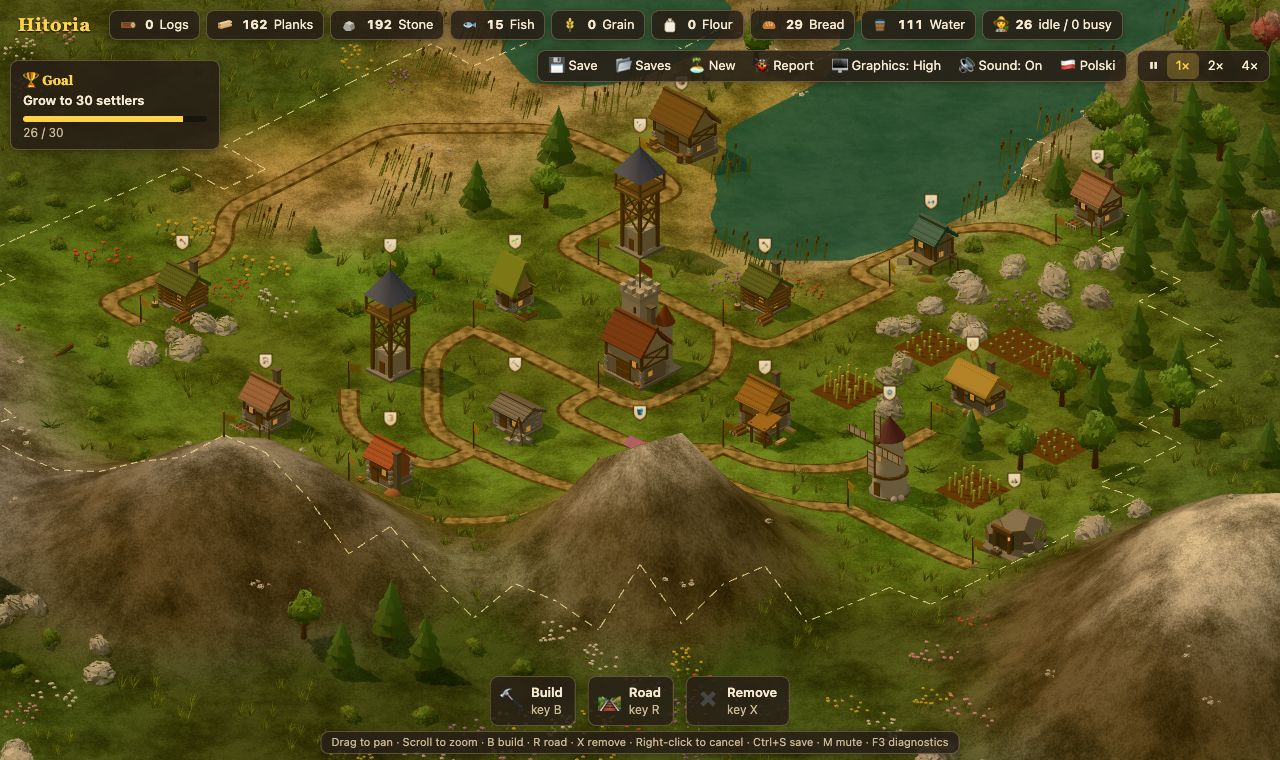
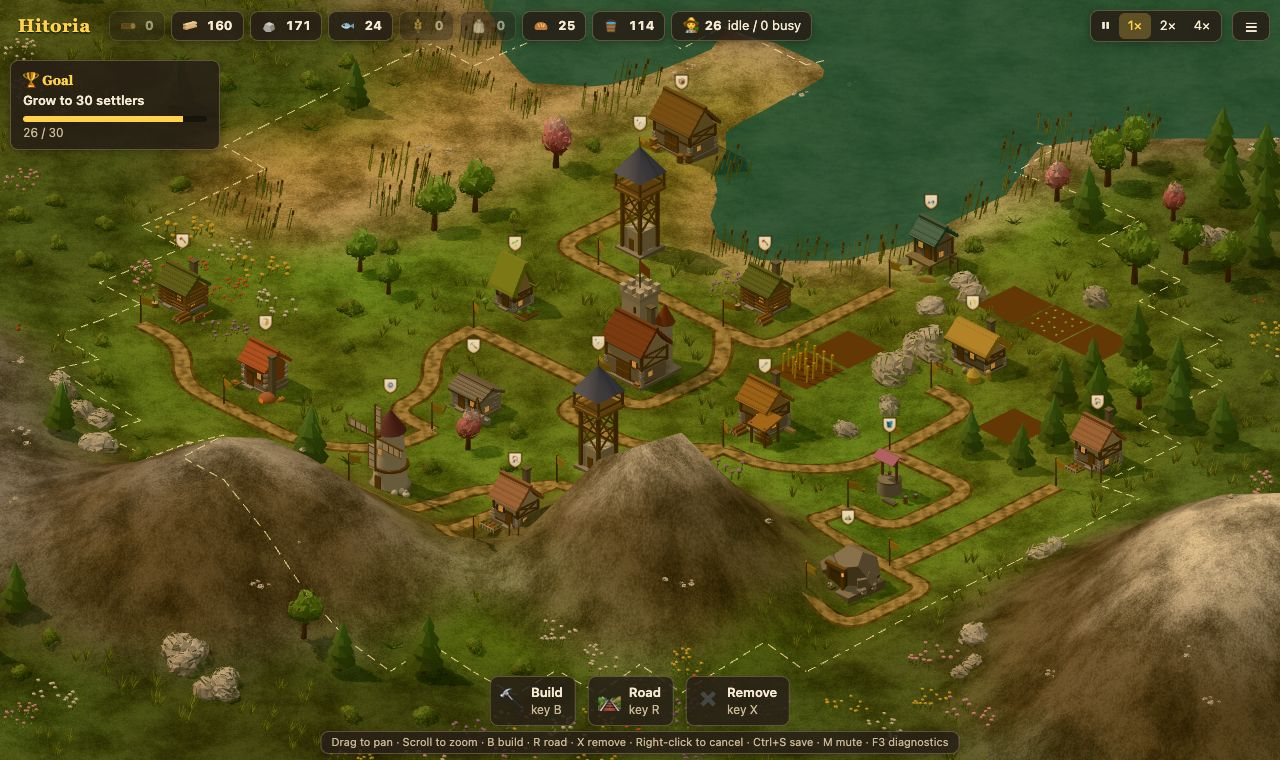
Fit the top bar on one row
Move the save, report, graphics, sound and language buttons into the
menu on every screen size. Show goods as picture and number, with the
name in a tooltip, and dim goods you have none of.

diff --git a/src/style.css b/src/style.css
@@ -61,9 +61,11 @@ canvas {
 }
 .pill { padding: 5px 10px; display: flex; align-items: center; gap: 6px; }
 .pill b { font-variant-numeric: tabular-nums; }
+/* Goods show as picture and number. The name is in the tooltip. Goods you have none of are dimmed. */
+.pill.none { opacity: 0.5; }
 
 #speed, #file { display: flex; padding: 2px; }
-#file { margin-left: auto; }
+#speed { order: 1; margin-left: auto; }
 #file, #speed, #info, .build, .toast, #help {
   background: var(--panel);
   border: 1px solid var(--edge);
@@ -204,7 +206,7 @@ canvas {
   border-radius: 8px;
   cursor: pointer;
 }
-#done[hidden], #menu { display: none; }
+#done[hidden] { display: none; }
 body.touch .build .key, body.touch #buildmenu kbd { display: none; } /* no keyboard on a touch screen */
 body.touch .build { row-gap: 0; }
 
@@ -216,28 +218,30 @@ body.touch .build { row-gap: 0; }
   border: 1px solid var(--edge);
   border-radius: 8px;
   cursor: pointer;
+  order: 2;
 }
+
+/* The file buttons fold away behind the menu button, so the top bar stays one row. */
+#file {
+  display: none;
+  position: absolute;
+  top: 40px;
+  right: 0;
+  flex-direction: column;
+  z-index: 20;
+}
+#file.open { display: flex; }
+#file button { padding: 8px 14px; text-align: left; }
 
 /* Phones, upright or on their side: fold the menu away and show goods as icon and number. */
 @media (max-width: 640px), (max-height: 500px) {
   #topbar { gap: 6px; }
   .brand { font-size: 16px; padding: 4px 2px; }
-  #speed { order: 1; margin-left: auto; }
-  #menu { display: block; order: 2; }
   #res { order: 3; width: 100%; gap: 4px; }
   .pill { padding: 3px 7px; gap: 2px; }
-  .pill .label { display: none; }
   #speed button { padding: 5px 8px; }
-  #file {
-    display: none;
-    position: absolute;
-    top: 38px;
-    right: 0;
-    flex-direction: column;
-    z-index: 20;
-  }
-  #file.open { display: flex; }
-  #file button { padding: 10px 14px; text-align: left; }
+  #file { top: 38px; }
+  #file button { padding: 10px 14px; }
   #info {
     top: auto;
     bottom: calc(96px + env(safe-area-inset-bottom));

diff --git a/src/ui.ts b/src/ui.ts
@@ -148,7 +148,7 @@ export class UI {
     const x = T();
     const stored = g.stored;
     $('res').innerHTML =
-      GOODS.map((k) => `<div class="pill"><span class="good ${k}"></span><b>${stored[k]}</b><span class="label">${goodName(k)}</span></div>`).join('') +
+      GOODS.map((k) => `<div class="pill${stored[k] ? '' : ' none'}" title="${goodName(k)}"><span class="good ${k}"></span><b>${stored[k]}</b></div>`).join('') +
       `<div class="pill">🧑🌾 ${x.settlers(g.pool, g.settlers.size)}</div>`;
 
     this.drawGoal();

diff --git a/src/main.ts b/src/main.ts
@@ -149,7 +149,7 @@ for (const btn of document.querySelectorAll<HTMLButtonElement>('#file button')) 
     ui.toast(T().newIsland);
   };
 }
-// On a narrow screen the file buttons fold away behind a menu button.
+// The file buttons fold away behind a menu button.
 document.getElementById('menu')!.onclick = () => document.getElementById('file')!.classList.toggle('open');
 window.addEventListener('pagehide', autosave);
 

diff --git a/README.md b/README.md
@@ -60,10 +60,10 @@ to the HQ, and its flag and roads stay.
 | Cancel | Right-click or Esc |
 | Pause | Space |
 | Save | Ctrl+S (or Cmd+S) |
-| Mute or unmute the sound | `M`, or the Sound button |
+| Mute or unmute the sound | `M`, or **Sound** in the ☰ menu |
 | Show live diagnostics | F3 |
 
-If something looks wrong, click **Report**. It saves a problem report to `reports/`.
+If something looks wrong, open the ☰ menu at the top right and click **Report**. It saves a problem report to `reports/`.
 
 ## Design pillars
 
@@ -127,6 +127,7 @@ stays the same. Saves from other addresses, such as http://main.localhost:5173, 
 ## Saving
 
 Saves live in your browser's local storage. You can keep as many as the storage holds.
+The save buttons are in the ☰ menu at the top right.
 
 - **Save** (or Ctrl+S) stores the game you are playing. The first time, it makes a new save named
   after the island. After that, it writes over that same save.

diff --git a/changelog/entries/2026-10-31-compact-hud.md b/changelog/entries/2026-10-31-compact-hud.md
@@ -1,0 +1,20 @@
+---
+title: Smaller top bar
+date: '2026-10-31 22:18'
+shots:
+  - name: bar
+    caption: The top bar fits on one row. Goods show as a picture and a number.
+    steps:
+      - wait: 500
+  - name: menu
+    caption: Save, load, settings and language are in the ☰ menu.
+    steps:
+      - click: '#menu'
+      - wait: 300
+---
+The top bar now takes one row, so you can see more of your island.
+
+- Goods show as a picture and a number. Point at a good to see its name.
+- Goods you have none of are dimmed.
+- Save, saves, new island, report, graphics, sound and language are in the ☰ menu at the top
+  right. Ctrl+S still saves, and M still mutes the sound.
